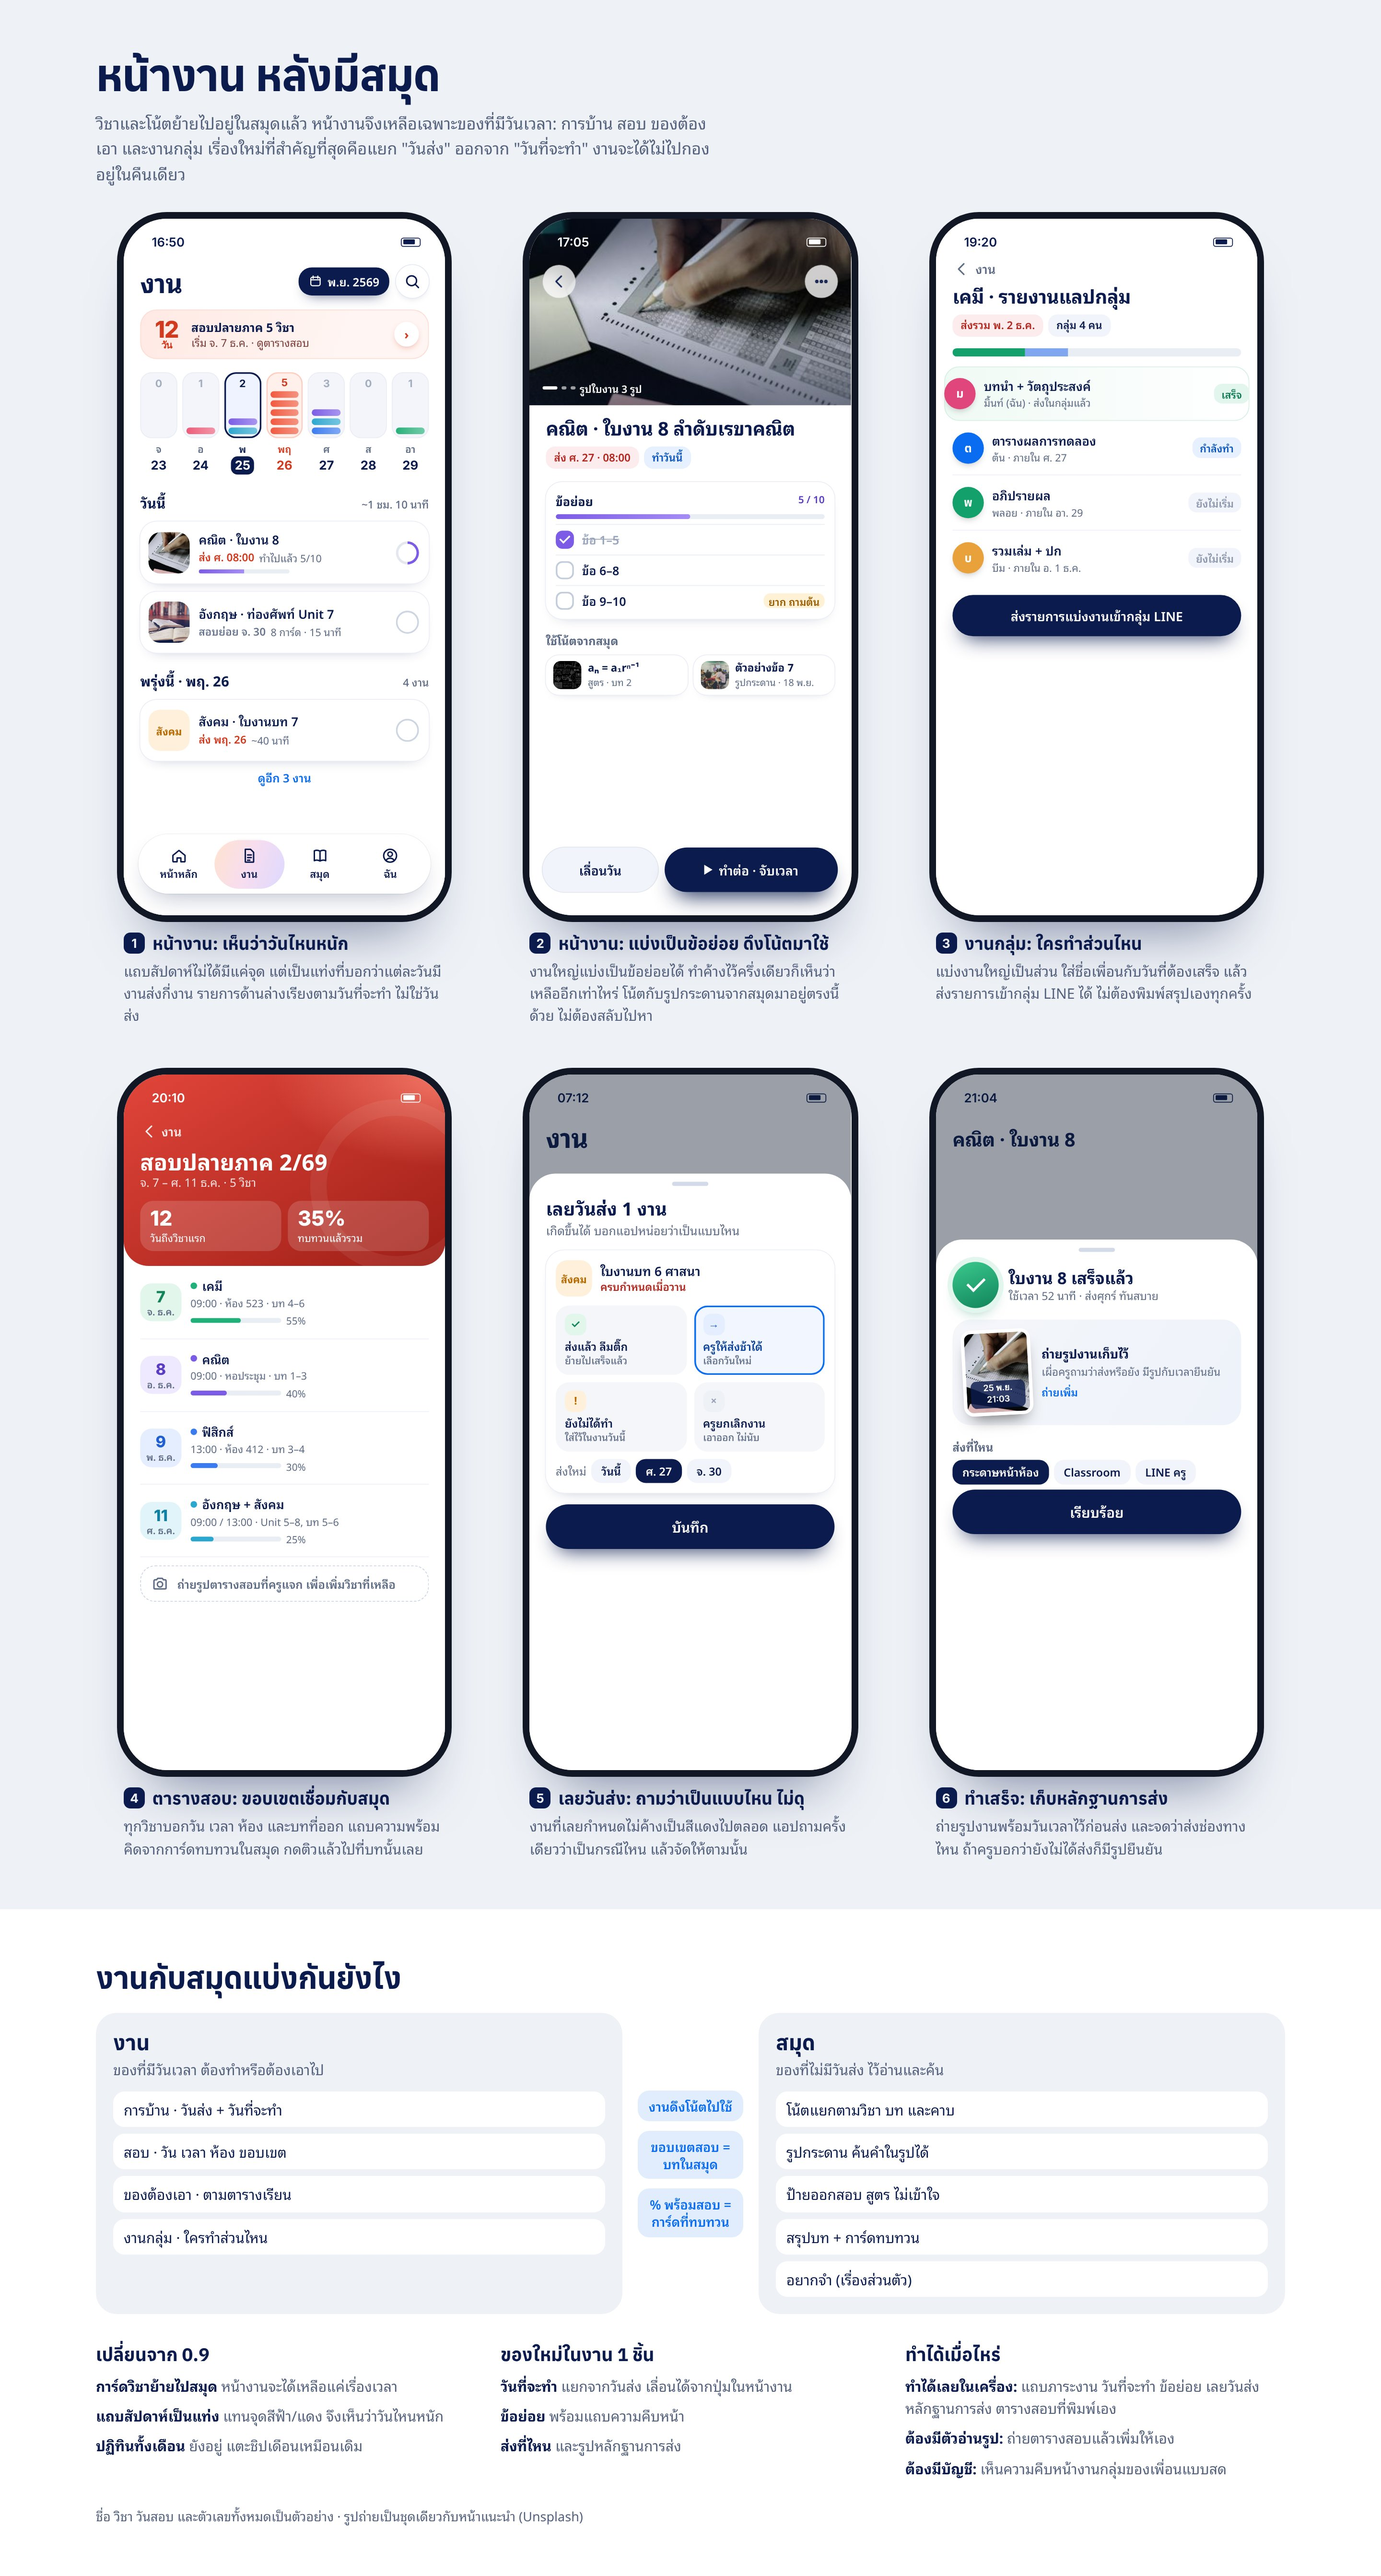
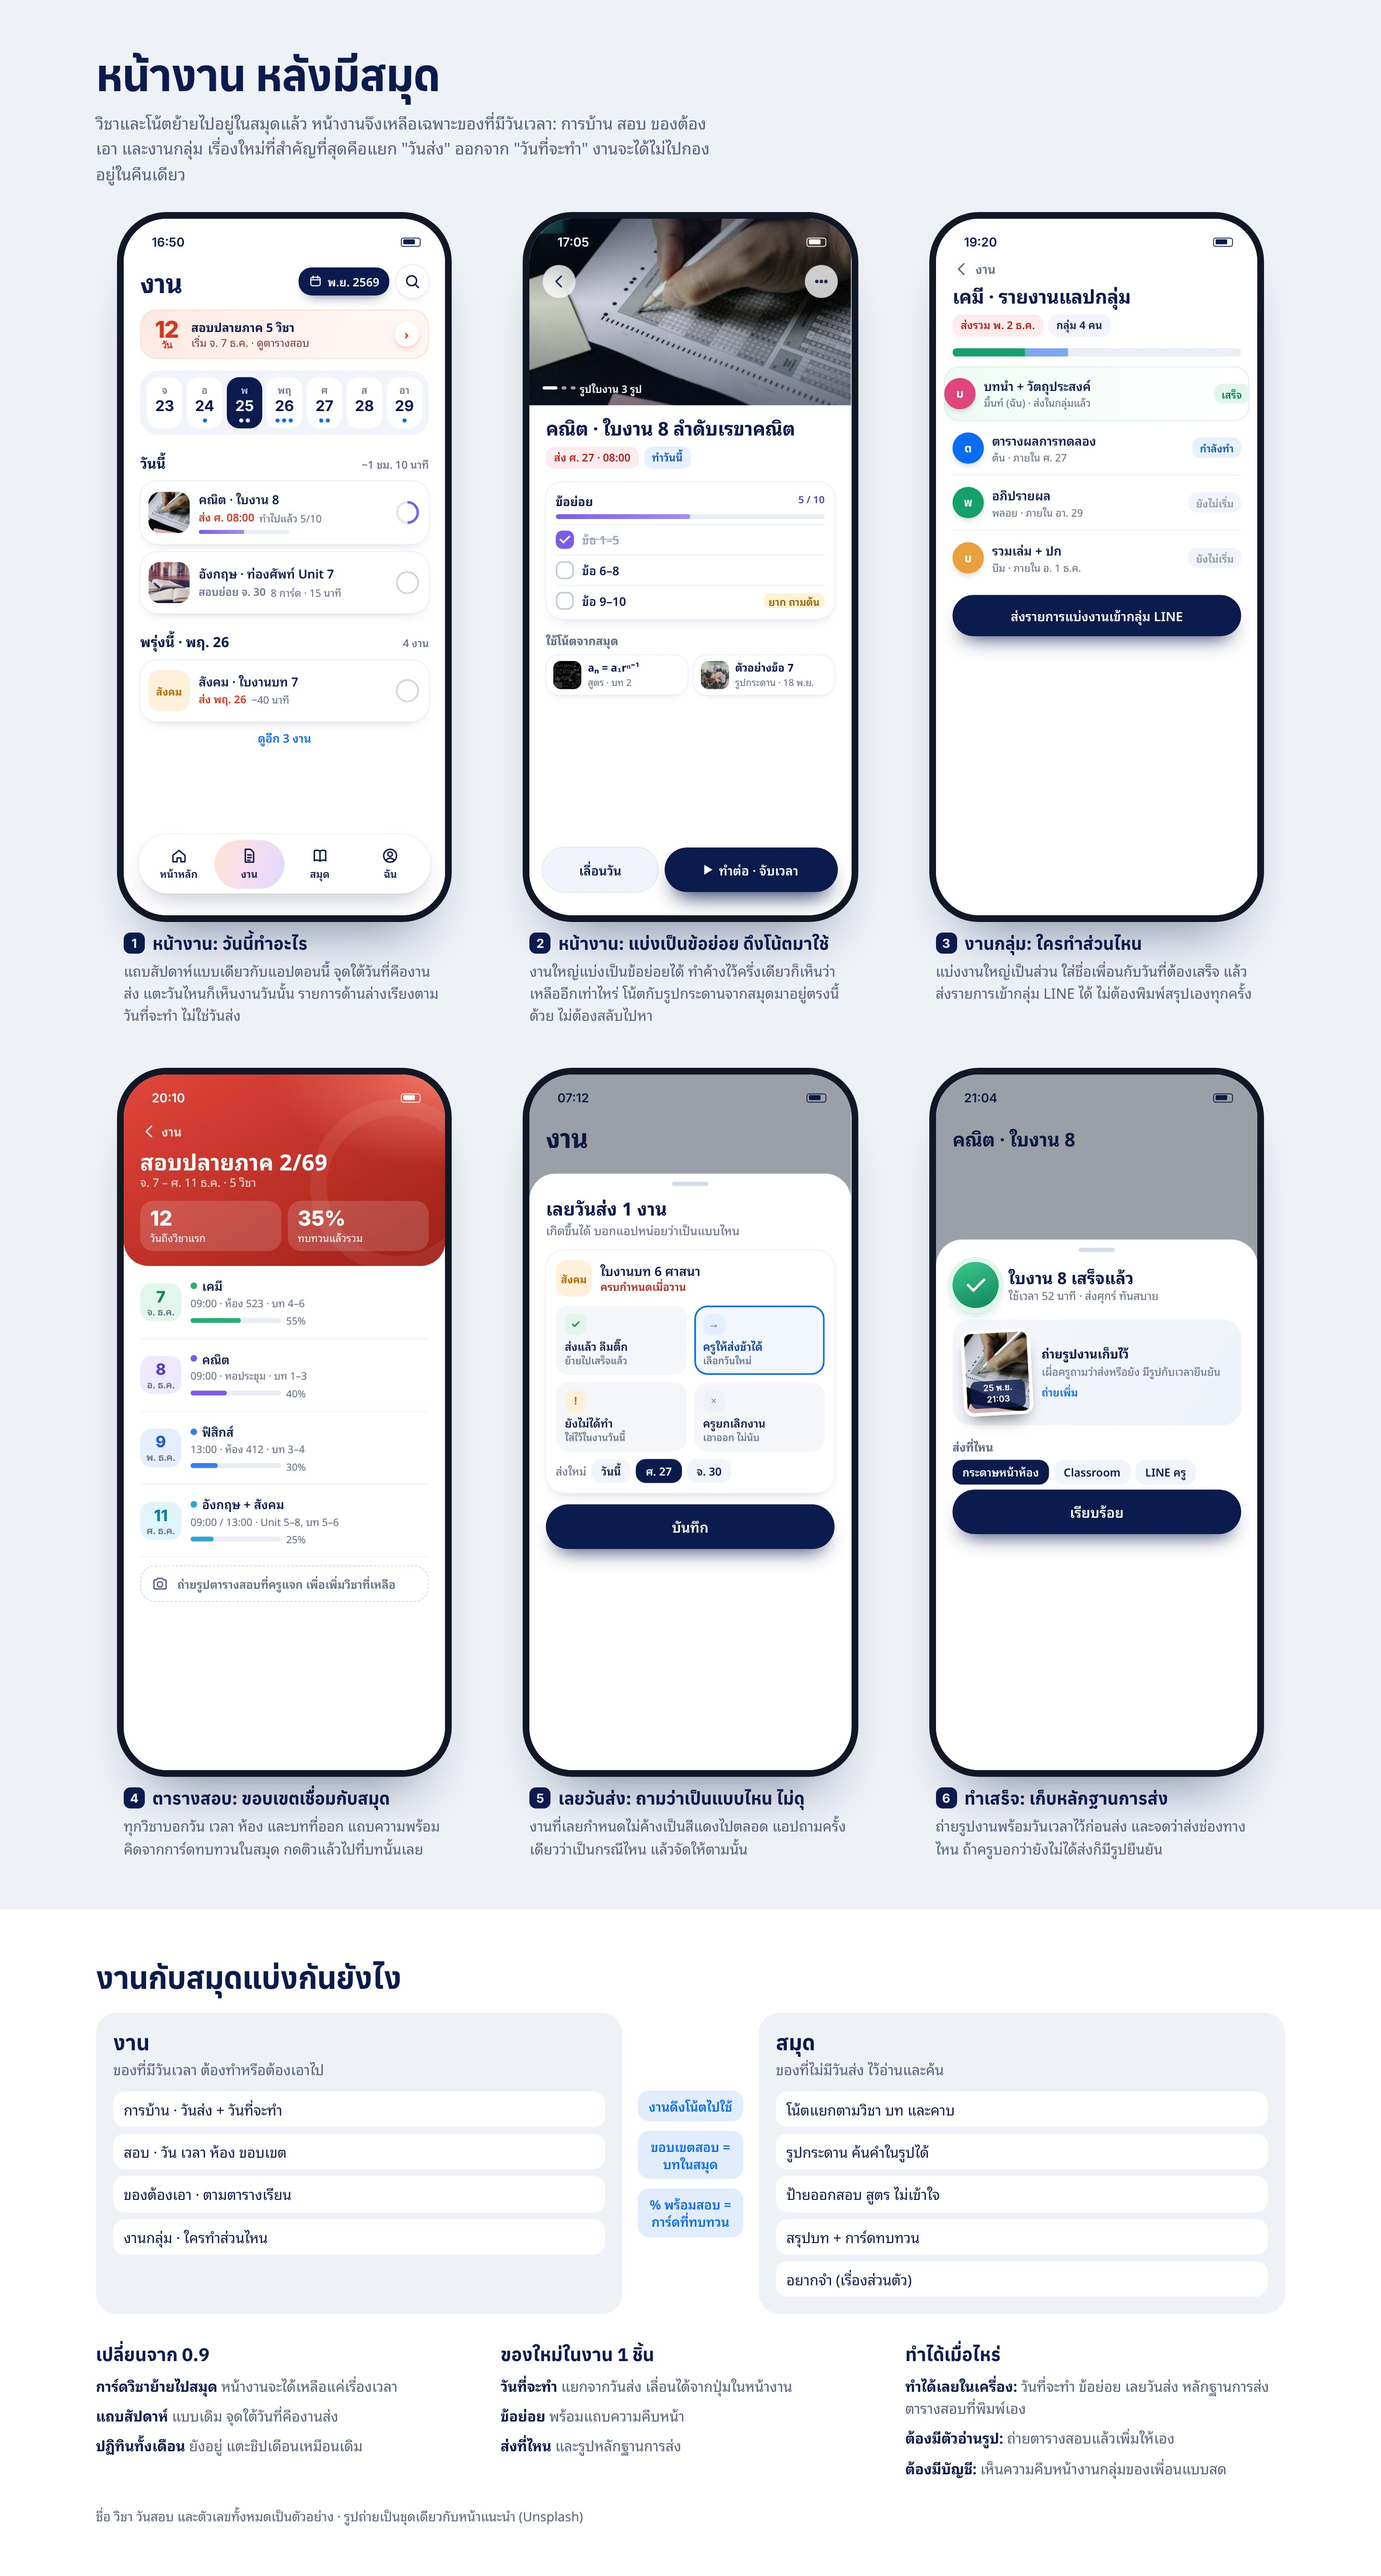
Mockup: หน้างานกลับไปใช้แถบสัปดาห์แบบ 0.9 (จุดใต้วันที่) แทนแท่งภาระงาน
Claude-Session: https://claude.ai/code/session_01EH8Q8dHLekRHDh5zqAHo39

diff --git a/mockups/sabaii-tasks-upgraded.html b/mockups/sabaii-tasks-upgraded.html
@@ -644,6 +644,17 @@ body{background:light-dark(linear-gradient(180deg,#EEF1F8,#E9EDF6 50%,#F0EEF8),#
 @media(max-width:700px){.grid{grid-template-columns:minmax(0,1fr)}:root{--s:.84}}
 @media(max-width:360px){:root{--s:.76}}
 
+
+/* ===== week strip like 0.9 ===== */
+.wkst{display:grid;grid-template-columns:repeat(7,1fr);gap:5px;margin-top:14px;background:#F1F4FA;border-radius:22px;padding:8px}
+.wd{display:flex;flex-direction:column;align-items:center;gap:1px;border-radius:15px;padding:6px 0 7px;background:#fff}
+.wd small{font-size:12px;color:#6B7790;font-weight:600}
+.wd b{font:700 18px/1.2 Inter,sans-serif;color:#0B1B4D}
+.wd i{display:flex;gap:3px;height:5px;margin-top:3px}
+.wd em{width:5px;height:5px;border-radius:50%;background:#0A6CF1}
+.wd.on{background:#0B1B4D}
+.wd.on small{color:#AFC0E8}.wd.on b{color:#fff}.wd.on em{background:#fff}
+
 </style>
 <svg width="0" height="0" style="position:absolute">
  <symbol id="i-home" viewBox="0 0 24 24"><path d="M4 11.5 12 5l8 6.5V19a1 1 0 0 1-1 1h-4.5v-5h-5v5H5a1 1 0 0 1-1-1z"/></symbol>
@@ -683,15 +694,7 @@ body{background:light-dark(linear-gradient(180deg,#EEF1F8,#E9EDF6 50%,#F0EEF8),#
   <div class="pad">
    <div class="hd"><span class="pt">งาน</span><span class="mchip"><svg class="ic" style="width:17px;height:17px"><use href="#i-cal"/></svg>พ.ย. 2569</span><span class="rnd"><svg class="ic"><use href="#i-search"/></svg></span></div>
    <div class="exs"><span class="n">12<small>วัน</small></span><div><b>สอบปลายภาค 5 วิชา</b><span>เริ่ม จ. 7 ธ.ค. · ดูตารางสอบ</span></div><i>›</i></div>
-   <div class="load">
-    <div><div class="bx"><span class="ct">0</span></div>จ<span class="dn">23</span></div>
-    <div><div class="bx"><span class="ct">1</span><i style="--c:#EC5B7A"></i></div>อ<span class="dn">24</span></div>
-    <div class="tdy"><div class="bx"><span class="ct">2</span><i style="--c:#7C5CE6"></i><i style="--c:#2AA7CF"></i></div>พ<span class="dn">25</span></div>
-    <div class="hv"><div class="bx"><span class="ct">5</span><i style="--c:#F0583E"></i><i style="--c:#F0583E"></i><i style="--c:#F0583E"></i><i style="--c:#F0583E"></i><i style="--c:#F0583E"></i></div>พฤ<span class="dn">26</span></div>
-    <div><div class="bx"><span class="ct">3</span><i style="--c:#7C5CE6"></i><i style="--c:#2AA7CF"></i><i style="--c:#3B7BF0"></i></div>ศ<span class="dn">27</span></div>
-    <div><div class="bx"><span class="ct">0</span></div>ส<span class="dn">28</span></div>
-    <div><div class="bx"><span class="ct">1</span><i style="--c:#22B07A"></i></div>อา<span class="dn">29</span></div>
-   </div>
+   <div class="wkst"><span class="wd"><small>จ</small><b>23</b><i></i></span><span class="wd"><small>อ</small><b>24</b><i><em></em></i></span><span class="wd on"><small>พ</small><b>25</b><i><em></em><em></em></i></span><span class="wd"><small>พฤ</small><b>26</b><i><em></em><em></em><em></em></i></span><span class="wd"><small>ศ</small><b>27</b><i><em></em><em></em></i></span><span class="wd"><small>ส</small><b>28</b><i></i></span><span class="wd"><small>อา</small><b>29</b><i><em></em></i></span></div>
    <div class="gh">วันนี้ <small>~1 ชม. 10 นาที</small></div>
[2 lines of base64/hex data omitted]
@@ -702,7 +705,7 @@ body{background:light-dark(linear-gradient(180deg,#EEF1F8,#E9EDF6 50%,#F0EEF8),#
   <div class="fade"></div>
   <div class="nav"><span><svg class="ic"><use href="#i-home"/></svg>หน้าหลัก</span><span class="on"><svg class="ic"><use href="#i-doc"/></svg>งาน</span><span><svg class="ic"><use href="#i-book"/></svg>สมุด</span><span><svg class="ic"><use href="#i-user"/></svg>ฉัน</span></div>
  </div></div>
- <div class="cap"><h3><i>1</i>หน้างาน: เห็นว่าวันไหนหนัก</h3><p>แถบสัปดาห์ไม่ได้มีแค่จุด แต่เป็นแท่งที่บอกว่าแต่ละวันมีงานส่งกี่งาน รายการด้านล่างเรียงตามวันที่จะทำ ไม่ใช่วันส่ง</p></div></div>
+ <div class="cap"><h3><i>1</i>หน้างาน: วันนี้ทำอะไร</h3><p>แถบสัปดาห์แบบเดียวกับแอปตอนนี้ จุดใต้วันที่คืองานส่ง แตะวันไหนก็เห็นงานวันนั้น รายการด้านล่างเรียงตามวันที่จะทำ ไม่ใช่วันส่ง</p></div></div>
 
  <!-- 3 detail -->
  <div class="cell"><div class="ph"><div class="in">
@@ -821,7 +824,7 @@ body{background:light-dark(linear-gradient(180deg,#EEF1F8,#E9EDF6 50%,#F0EEF8),#
  <div class="cols3">
   <div><h3>เปลี่ยนจาก 0.9</h3><ul>
    <li><b>การ์ดวิชาย้ายไปสมุด</b> หน้างานจะได้เหลือแค่เรื่องเวลา</li>
-   <li><b>แถบสัปดาห์เป็นแท่ง</b> แทนจุดสีฟ้า/แดง จึงเห็นว่าวันไหนหนัก</li>
+   <li><b>แถบสัปดาห์</b> แบบเดิม จุดใต้วันที่คืองานส่ง</li>
    <li><b>ปฏิทินทั้งเดือน</b> ยังอยู่ แตะชิปเดือนเหมือนเดิม</li>
   </ul></div>
   <div><h3>ของใหม่ในงาน 1 ชิ้น</h3><ul>
@@ -830,7 +833,7 @@ body{background:light-dark(linear-gradient(180deg,#EEF1F8,#E9EDF6 50%,#F0EEF8),#
    <li><b>ส่งที่ไหน</b> และรูปหลักฐานการส่ง</li>
   </ul></div>
   <div><h3>ทำได้เมื่อไหร่</h3><ul>
-   <li><b>ทำได้เลยในเครื่อง:</b> แถบภาระงาน วันที่จะทำ ข้อย่อย เลยวันส่ง หลักฐานการส่ง ตารางสอบที่พิมพ์เอง</li>
+   <li><b>ทำได้เลยในเครื่อง:</b> วันที่จะทำ ข้อย่อย เลยวันส่ง หลักฐานการส่ง ตารางสอบที่พิมพ์เอง</li>
    <li><b>ต้องมีตัวอ่านรูป:</b> ถ่ายตารางสอบแล้วเพิ่มให้เอง</li>
    <li><b>ต้องมีบัญชี:</b> เห็นความคืบหน้างานกลุ่มของเพื่อนแบบสด</li>
   </ul></div>
